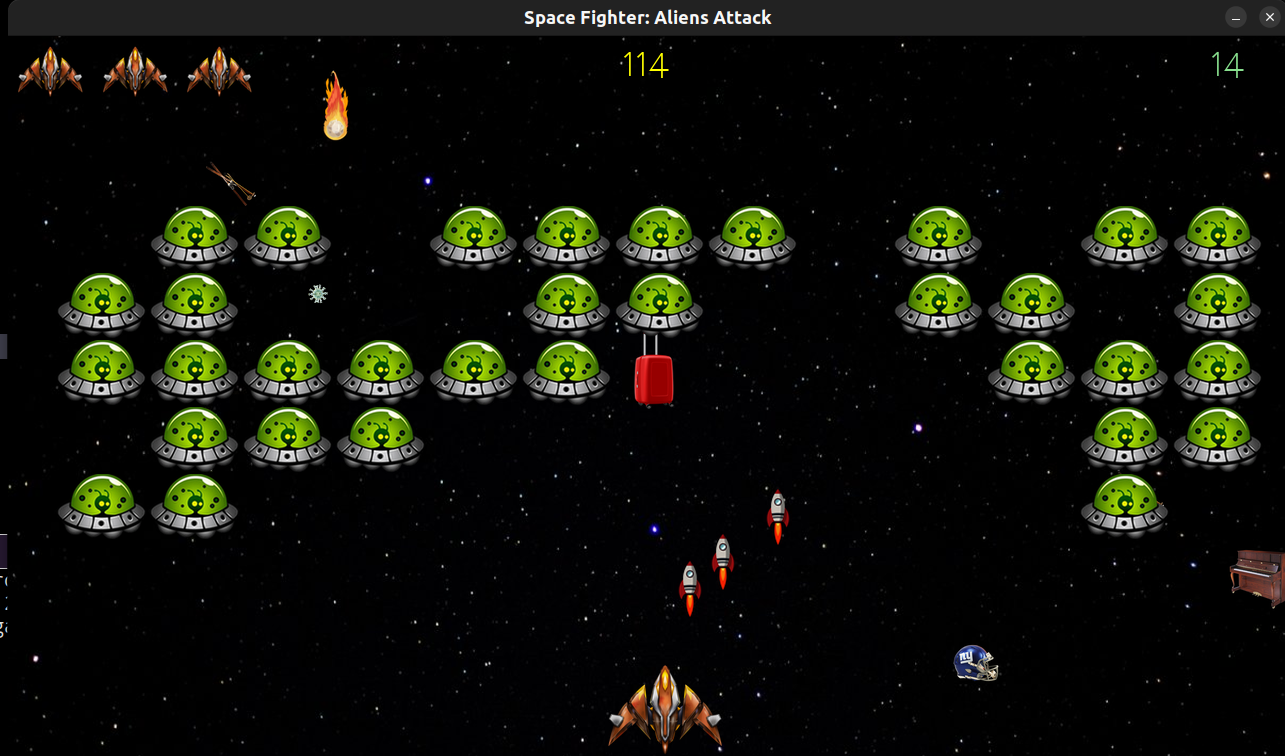
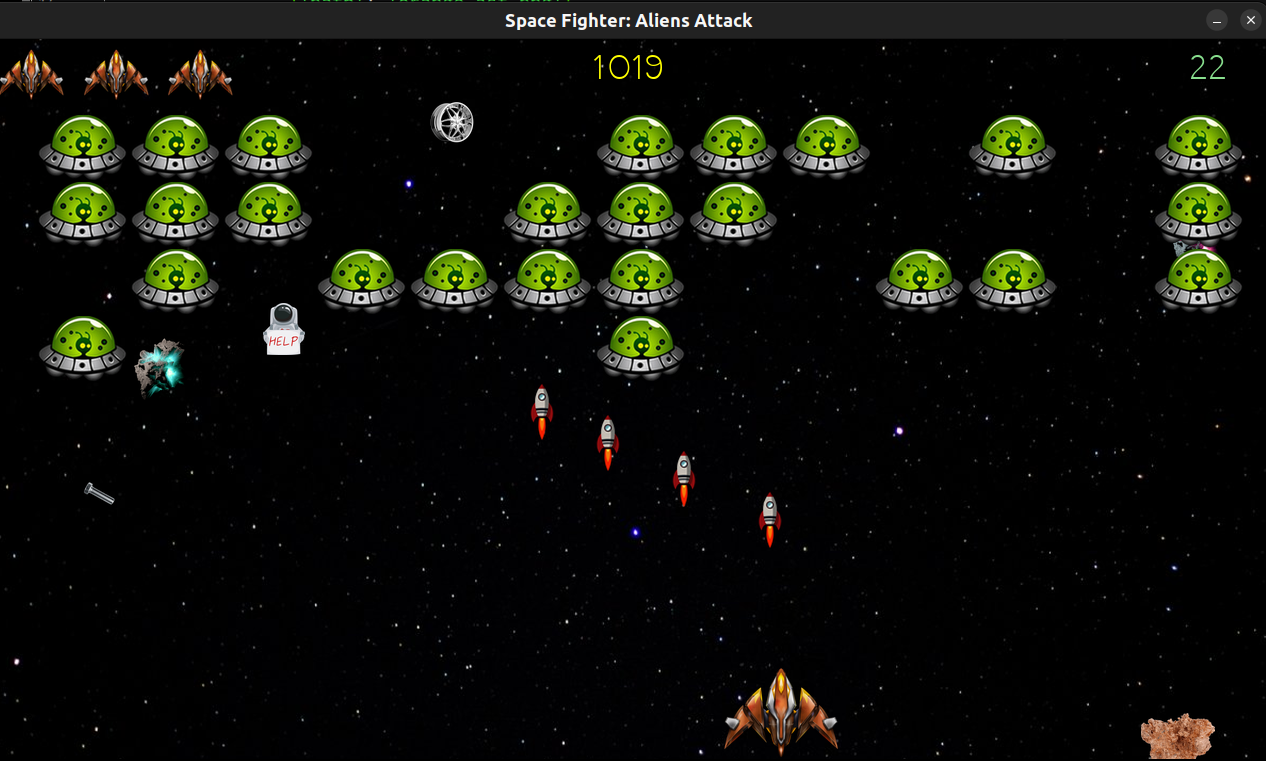
speed spaceship and ufos README.md

diff --git a/astronaut.py b/astronaut.py
@@ -19,8 +19,7 @@ class Astronaut(pygame.sprite.Sprite):
 
 
 astronaut_imgs = (
-    # {'path': 'astr1.png'},
-    # {'path': 'astr2.png'},
+    {'path': 'astr2.png'},
     {'path': 'astr3.png'},
     {'path': 'astr4.png'},
     {'path': 'help.png'},
@@ -32,5 +31,5 @@ astronaut_surface = [pygame.image.load('images/' + file['path']) for file in ast
 def create_astronaut(astronauts, astronaut_surface, WIDTH):
     indx = randint(0, len(astronaut_surface) - 1)
     x_position = randint(20, WIDTH - 20)
-    speed_astronaut = randint(1, 2)
+    speed_astronaut = randint(1, 4)
     return Astronaut(x_position, speed_astronaut, astronaut_surface[indx], astronauts)

diff --git a/controls.py b/controls.py
@@ -108,7 +108,7 @@ def update_ufos(stats, screen, spaceship, ufos, rockets, level_failed, you_died,
         pygame.display.update()
         time.sleep(1)
         next_level.play()
-        count_clear_level += 0.05  # повышение скорости нового уровня при успешном прохождении предыдущего
+        count_clear_level += 0.03  # повышение скорости нового уровня при успешном прохождении предыдущего
         speed = count_clear_level
         time.sleep(3)
         create_ufos_army(screen, ufos, speed=speed)

diff --git a/spaceship.py b/spaceship.py
@@ -21,9 +21,9 @@ class SpaceShip(pygame.sprite.Sprite):
     def update_position(self):
         """обновление позиции космического корабля"""
         if self.move_right and self.rect.right < self.screen_rectangle.right:
-            self.center += 5.5
+            self.center += 10.5
         elif self.move_left and self.rect.left > 0:  # self.screen_rectangle.left:
-            self.center -= 5.5
+            self.center -= 10.5
         self.rect.centerx = self.center
 
     def create_spaceship(self):

diff --git a/space_garbage.py b/space_garbage.py
@@ -27,5 +27,5 @@ garbage_surface = [pygame.image.load('images/' + file['path']) for file in garba
 def create_meteorite(meteorites, garbage_surface, WIDTH):
     indx = randint(0, len(garbage_surface) - 1)
     x_position = randint(40, WIDTH - 40)
-    speed_garbage = randint(1, 4)
+    speed_garbage = randint(1, 5)
     return Meteorit(x_position, speed_garbage, garbage_surface[indx], meteorites)

diff --git a/space_game.py b/space_game.py
@@ -19,7 +19,7 @@ def run():
     # Инициализация pygame и mixer
     pygame.mixer.pre_init(44100, -16, 1, 512)
     pygame.init()
-    pygame.time.set_timer(pygame.USEREVENT, 4000)
+    pygame.time.set_timer(pygame.USEREVENT, 3000)
     pygame.time.set_timer(pygame.USEREVENT + 1, 13000)
 
     # Загрузка и воспроизведение фоновой музыки

diff --git a/ufo.py b/ufo.py
@@ -10,7 +10,7 @@ class Ufo(pygame.sprite.Sprite):
         self.screen = screen
         self.image = pygame.image.load('images/ufo.png')
         self.rect = self.image.get_rect()
-        self.speed = 0.1
+        self.speed = 0.05
         self.rect.x = self.rect.width
         self.rect.y = self.rect.height
         self.x = float(self.rect.x)

diff --git a/README.md b/README.md
@@ -1,14 +1,16 @@
 <h1 align="center"> Space Fighter: Aliens Attack </h1> 
 <h1 align="center"> Игра в стиле космической стрелялки 🌍👽</h1>
-<p>- в игре предусмотрены 3 жизни</p>
-<p>- увеличение скорости пришельцев при успешном прохождении уровня</p>
-<p>- летающие метеориты с различной скоростью</p>
-<p>- звуки (фоновая музыка, выстрелы, взрывы, провал уровня, пройденный уровень, игра окончена)</p>
+<p><img alt="game window" src="images/spaceship_lives.png" /> - в игре предусмотрены 3 жизни </p>
+<p><img alt="game window" src="images/ufo.png" />- увеличение скорости пришельцев при успешном прохождении уровня, +1 очко за сбитие пришельца</p>
+<p><img alt="game window" src="images/green-ast.png" />- летающие метеориты и космический мусор (+1 очко) с различной скоростью</p>
+<p><img alt="game window" src="images/help.png" /> - спасение астронавтов (+5 очков), не спасение каждого астронавта (-15 очков)</p>
+<p>- звуки (фоновая музыка, выстрелы, взрывы, спасение астронавта, потеря астронавта, провал уровня, пройденный уровень, игра окончена)</p>
 <p>- реализована постановка на паузу и снятие с паузы фоновой музыки:"Pause", увеличение и уменьшение громкости: "+", "-".</p>
 <p>- текущий счет убитых пришельцев в режиме онлайн</p>
 <p>- текущий рекорд </p>
 
 <p align="center"><img alt="game window" src="screenshots/game.png" /></p>
+<p align="center"><img alt="game window" src="screenshots/main_window.png" /></p>
 <p align="center"><img alt="failed" src="screenshots/level_failed.png"/></p>
 <p align="center"><img alt="died" src="screenshots/died.png"/></p>
 
